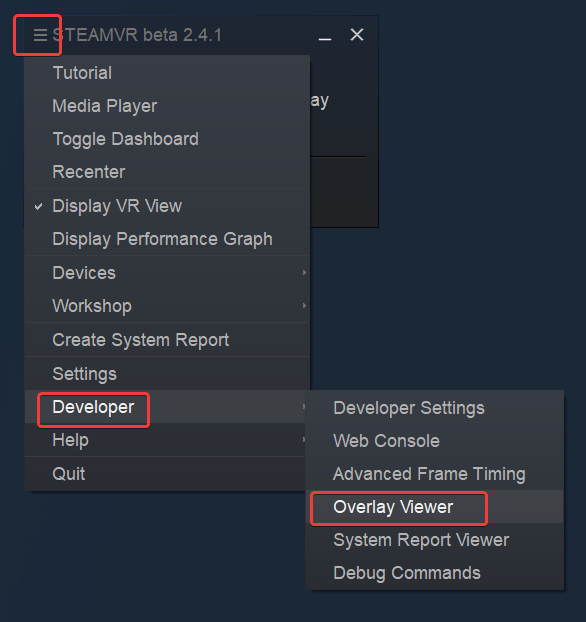
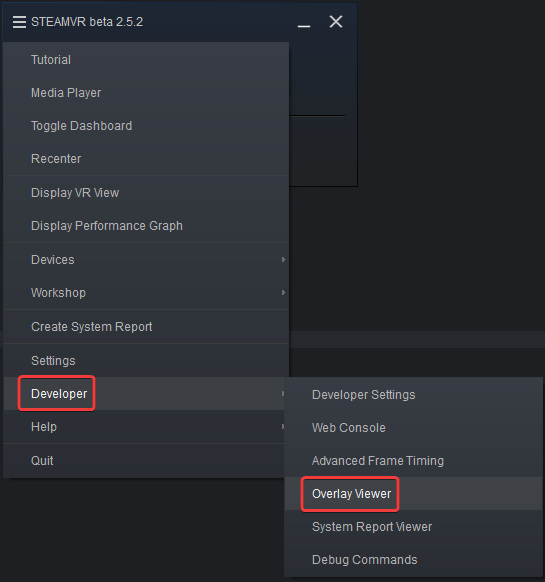
オーバーレイの作成清書

diff --git a/books/a082c5728cc1f6/create-overlay.md b/books/a082c5728cc1f6/create-overlay.md
@@ -3,11 +3,11 @@ title: "オーバーレイの作成"
 free: false
 ---
 
-## key と name
+## key と name の準備
 オーバーレイの作成時に `key` と `name` の 2 つの文字列を設定します。
-`key` は他のオーバーレイと重複しない一意な文字列です。
+`key` は他のオーバーレイを識別するときに使われる一意な文字列です。
 `name` は表示用の任意の文字列です。
-ここでは、それぞれ `"WatchOverlayKey"` と `"WatchOverlay"` とします。
+ここでは、それぞれ `"WatchOverlayKey"` と `"WatchOverlay"` として作成します。
 
 ```diff cs:WatchOverlay.cs
 void Start()
@@ -19,11 +19,9 @@ void Start()
 }
 ```
 
-※ 実際のアプリでは、重複を避けるため `key` に `Application.companyName` や `Application.productName` などを組み込むとよいかと思います。
-
-## オーバーレイハンドル
-ファイルをファイルハンドルで操作するように、オーバーレイはオーバーレイハンドルで操作します。
+## オーバーレイハンドルの準備
 オーバーレイハンドルを保存する変数を作成します。
+ファイルをファイルハンドルで操作するように、オーバーレイはオーバーレイハンドルで操作します。
 
 ```diff cs:WatchOverlay.cs
 void Start()
@@ -36,11 +34,11 @@ void Start()
 }
 ```
 
-初期値の `OpenVR.k_ulOverlayHandleInvalid` はオーバーレイが作成できていないことを表す値です。
+初期値の [OpenVR.k_ulOverlayHandleInvalid](https://valvesoftware.github.io/steamvr_unity_plugin/api/Valve.VR.OpenVR.html?q=k_ulOverlayHandleInvalid#Valve_VR_OpenVR_k_ulOverlayHandleInvalid) はオーバーレイが作成できていないことを表しています。ハンドルは `ulong` 型です。
 
 ## オーバーレイの作成とハンドルの取得
 オーバーレイの作成には [CreateOverlay()](https://valvesoftware.github.io/steamvr_unity_plugin/api/Valve.VR.CVROverlay.html#Valve_VR_CVROverlay_CreateOverlay_System_String_System_String_System_UInt64__) を使います。（詳細は [Wiki](https://github.com/ValveSoftware/openvr/wiki/IVROverlay::CreateOverlay) を参照）
-引数に、先ほど作成した `key`, `name` と `overlayHandle` の参照を渡します。
+先ほど作成した `key`, `name` と `overlayHandle` の参照を引数として渡します。
 
 ```diff cs:WatchOverlay.cs
 void Start()
@@ -55,10 +53,10 @@ void Start()
 ```
 
 `overlayHandle` に、作成されたオーバーレイのハンドルが保存されます。
-作成時のエラーは関数の戻り値として取得できます。
+戻り値はオーバーレイ作成時のエラー情報です。
 
 ## エラー処理
-エラー処理を追加します。
+オーバーレイの作成に失敗したときのエラー処理を追加します。
 ```diff cs:WatchOverlay.cs
 void Start()
 {
@@ -74,14 +72,14 @@ void Start()
 +   }
 }
 ```
-OpenVR の初期化と同じように、エラーが発生しなければ EVROverlayError.None が返ります。
-オーバーレイ関連のエラーは [EVROverlayError](https://valvesoftware.github.io/steamvr_unity_plugin/api/Valve.VR.EVROverlayError.html) に定義されています。
+エラーがなければ `EVROverlayError.None` が返ります。
+オーバーレイ関連のエラー内容は [EVROverlayError](https://valvesoftware.github.io/steamvr_unity_plugin/api/Valve.VR.EVROverlayError.html) で定義されています。
 
 ## オーバーレイのクリーンアップ
-作成したオーバーレイを、アプリケーション終了時に破棄します。
+作成したオーバーレイを、アプリケーション終了時に破棄するコードを追加します。
 
 ### overlayHandle を移動
-overlayHandle を Steam() 内から、クラスのメンバに移動します。
+`overlayHandle` を `Start()` 内から、クラスのメンバ変数に移動します。
 
 ```diff cs:WatchOverlay.cs
 public class WatchOverlay : MonoBehaviour
@@ -92,9 +90,9 @@ public class WatchOverlay : MonoBehaviour
     {
         InitOpenVR();
 
--       var overlayHandle = OpenVR.k_ulOverlayHandleInvalid;
         var key = "WatchOverlayKey";
         var name = "WatchOverlay";
+-       var overlayHandle = OpenVR.k_ulOverlayHandleInvalid;
         var error = OpenVR.Overlay.CreateOverlay(key, name, ref overlayHandle);
         if (error != EVROverlayError.None)
         {
@@ -106,11 +104,10 @@ public class WatchOverlay : MonoBehaviour
 }
 ```
 
-これは OnDestroy() から、overlayHandle を使用するためです。
-
 ### オーバーレイの破棄
-オーバーレイの破棄に使用するのは `DestroyOverlay()` です。（詳細は [Wiki](https://github.com/ValveSoftware/openvr/wiki/IVROverlay::DestroyOverlay) を参照）
-OnDestroy() 内で破棄します。
+オーバーレイの破棄に使用するのは [DestroyOverlay()](https://valvesoftware.github.io/steamvr_unity_plugin/api/Valve.VR.CVROverlay.html#Valve_VR_CVROverlay_DestroyOverlay_System_UInt64_) です。（詳細は [Wiki](https://github.com/ValveSoftware/openvr/wiki/IVROverlay::DestroyOverlay) を参照）
+`OnApplicationQuit()` を作成して、オーバーレイを破棄するコードを追加します。
+
 ```diff cs:WatchOverlay.cs
 public class WatchOverlay : MonoBehaviour
 {
@@ -129,13 +126,20 @@ public class WatchOverlay : MonoBehaviour
         }
     }
 
-    private void OnDestroy()
-    {
++   private void OnApplicationQuit()
++   {
 +       if (overlayHandle != OpenVR.k_ulOverlayHandleInvalid)
 +       {
-+           OpenVR.Overlay.DestroyOverlay(overlayHandle);
++           var error = OpenVR.Overlay.DestroyOverlay(overlayHandle);
++           if (error != EVROverlayError.None)
++           {
++               throw new Exception("オーバーレイの破棄に失敗しました: " + error);
++           }
 +       }
++   }
 
+    private void OnDestroy()
+    {
         ShutdownOpenVR();
     }
 
@@ -143,33 +147,43 @@ public class WatchOverlay : MonoBehaviour
 }
 ```
 
-### オーバーレイの確認
-SteamVR に同梱されている Overlay Viewer を使って、実際にオーバーレイが作られているか確認してみましょう。
+`OpenVR.Overlay.DestroyOverlay()` は `OpenVR.Shutdown()` よりも先に実行する必要があるため、`OnDestory()` より先に実行される `OnApplicationQuit()` に書いています。
+https://docs.unity3d.com/Manual/ExecutionOrder.html
 
-SteamVR のウィンドウのメニューから Developer > Overlay Viewer を選択します。
+### オーバーレイの確認
+オーバーレイが作成できたか確認してみましょう。
+SteamVR に同梱されている **Overlay Viewer** を使うと、作成されたオーバーレイを確認できます。
+
+SteamVR のウィンドウのメニューから **Developer > Overlay Viewer** を選択します。
+![](/images/steamvr-menu.png)
 ![](/images/overlay-viewer-menu.png)
 
-Overlay Viewer では、SteamVR 上に作成されているオーバーレイの一覧を確認できます。
+作成されているオーバーレイの一覧が表示されます。
+既に SteamVR のシステムによって作成されたオーバーレイがたくさん表示されていますね。
 ![](/images/overlay-list.png)
 
-この状態でプログラムを実行してみましょう。
-Overlay Viewer の左上の一覧に、先ほど指定したキー `WatchOverlayKey` が追加されます。
-クリックすると、左下にオーバーレイの詳細が表示されますね。
+この状態で Unity からプログラムを実行してください。
+
+オーバーレイの一覧に、先ほど指定したキー `WatchOverlayKey` が追加されます。
+クリックするとオーバーレイの詳細が表示されます。
 ![](/images/overlay-viewer-created.png)
 
-右側の灰色はオーバーレイの描画内容が表示されますが、今は何も描画していない状態です。
+右側の灰色の領域にオーバーレイのプレビューが表示されますが、まだ何も描画していないので何も表示されません。
+
+オーバーレイが作成できていることを確認できたので、プログラムを終了して Overlay Viewer を閉じます。
 
 :::message
-Overlay Viewer の実行ファイルは、SteamVR のディレクトリに入っています。
-デフォルトは `C:\Program Files (x86)\Steam\steamapps\common\SteamVR\bin\win32\overlay_viewer.exe` です。
+Overlay Viewer は SteamVR のインストールディレクトリに入っています。
+`C:\Program Files (x86)\Steam\steamapps\common\SteamVR\bin\win32\overlay_viewer.exe`
+
 開発中は何度も起動することになるので、ショートカットを作成しておくと便利です。
 :::
 
 ## コード整理
-ここまでのコードを関数に分けつつ整理しておきます。
 
 ### オーバーレイの作成
-オーバーレイの作成は `CreateOverlay()` という関数に分けておきます。
+オーバーレイの作成は `CreateOverlay()` という関数を作って分けておきます。
+`key` と `name` を受け取って、オーバーレイハンドルを返します。
 
 ```diff cs:WatchOverlay.cs
 public class WatchOverlay : MonoBehaviour
@@ -179,7 +193,6 @@ public class WatchOverlay : MonoBehaviour
     private void Start()
     {
        InitOpenVR();
-
 
 -      var key = "WatchOverlayKey";
 -      var name = "WatchOverlay";
@@ -194,6 +207,7 @@ public class WatchOverlay : MonoBehaviour
     ～省略～
 
 +   private ulong CreateOverlay(string key, string name) {
++       // 少しコードが変わっています
 +       var handle = OpenVR.k_ulOverlayHandleInvalid;
 +       var error = OpenVR.Overlay.CreateOverlay(key, name, ref handle);
 +       if (error != EVROverlayError.None)
@@ -206,28 +220,37 @@ public class WatchOverlay : MonoBehaviour
 ```
 
 ### オーバーレイの破棄
-オーバーレイの破棄は `DestroyOverlay()` という関数に分けておきます。
+同様に `DestroyOverlay()` という関数に分けておきます。
 ```diff cs:WatchOverlay.cs
 public class WatchOverlay : MonoBehaviour
 {
     ～省略～
 
-    private void OnDestroy()
+    private void OnApplicationQuit()
     {
 -       if (overlayHandle != OpenVR.k_ulOverlayHandleInvalid)
 -       {
--           OpenVR.Overlay.DestroyOverlay(overlayHandle);
+-           var error = OpenVR.Overlay.DestroyOverlay(overlayHandle);
+-           if (error != EVROverlayError.None)
+-           {
+-               throw new Exception("オーバーレイの破棄に失敗しました: " + error);
+-           }
 -       }
 +       DestroyOverlay(overlayHandle);
-        ShutdownOpenVR();
     }
 
     ～省略～
 
-+   private void DestroyOverlay(ulong handle) {
++   // overlayHandle -> handle に変数名を変えています
++   private void DestroyOverlay(ulong handle)
++   {
 +       if (handle != OpenVR.k_ulOverlayHandleInvalid)
 +       {
-+           OpenVR.Overlay.DestroyOverlay(handle);
++           var error = OpenVR.Overlay.DestroyOverlay(handle);
++           if (error != EVROverlayError.None)
++           {
++               throw new Exception("オーバーレイの破棄に失敗しました: " + error);
++           }
 +       }
 +   }
 }
@@ -248,10 +271,14 @@ public class WatchOverlay : MonoBehaviour
         InitOpenVR();
         overlayHandle = CreateOverlay("WatchOverlayKey", "WatchOverlay");
     }
+    
+    private void OnApplicationQuit()
+    {
+        DestroyOverlay(overlayHandle);
+    }
 
     private void OnDestroy()
     {
-        DestroyOverlay(overlayHandle);
         ShutdownOpenVR();
     }
 
@@ -267,15 +294,16 @@ public class WatchOverlay : MonoBehaviour
         }
     }
 
-   private void ShutdownOpenVR()
-   {
-       if (OpenVR.System != null)
-       {
-           OpenVR.Shutdown();
-       }
-   }
+    private void ShutdownOpenVR()
+    {
+        if (OpenVR.System != null)
+        {
+            OpenVR.Shutdown();
+        }
+    }
 
-    private ulong CreateOverlay(string key, string name) {
+    private ulong CreateOverlay(string key, string name)
+    {
         var handle = OpenVR.k_ulOverlayHandleInvalid;
         var error = OpenVR.Overlay.CreateOverlay(key, name, ref handle);
         if (error != EVROverlayError.None)
@@ -285,11 +313,18 @@ public class WatchOverlay : MonoBehaviour
         return handle;
     }
 
-    private void DestroyOverlay(ulong handle) {
+    private void DestroyOverlay(ulong handle)
+    {
         if (handle != OpenVR.k_ulOverlayHandleInvalid)
         {
-            OpenVR.Overlay.DestroyOverlay(handle);
+            var error = OpenVR.Overlay.DestroyOverlay(handle);
+            if (error != EVROverlayError.None)
+            {
+                throw new Exception("オーバーレイの破棄に失敗しました: " + error);
+            }
         }
     }
 }
 ```
+
+オーバーレイの作成ができたので、次のページではオーバーレイに画像を表示してみます。
